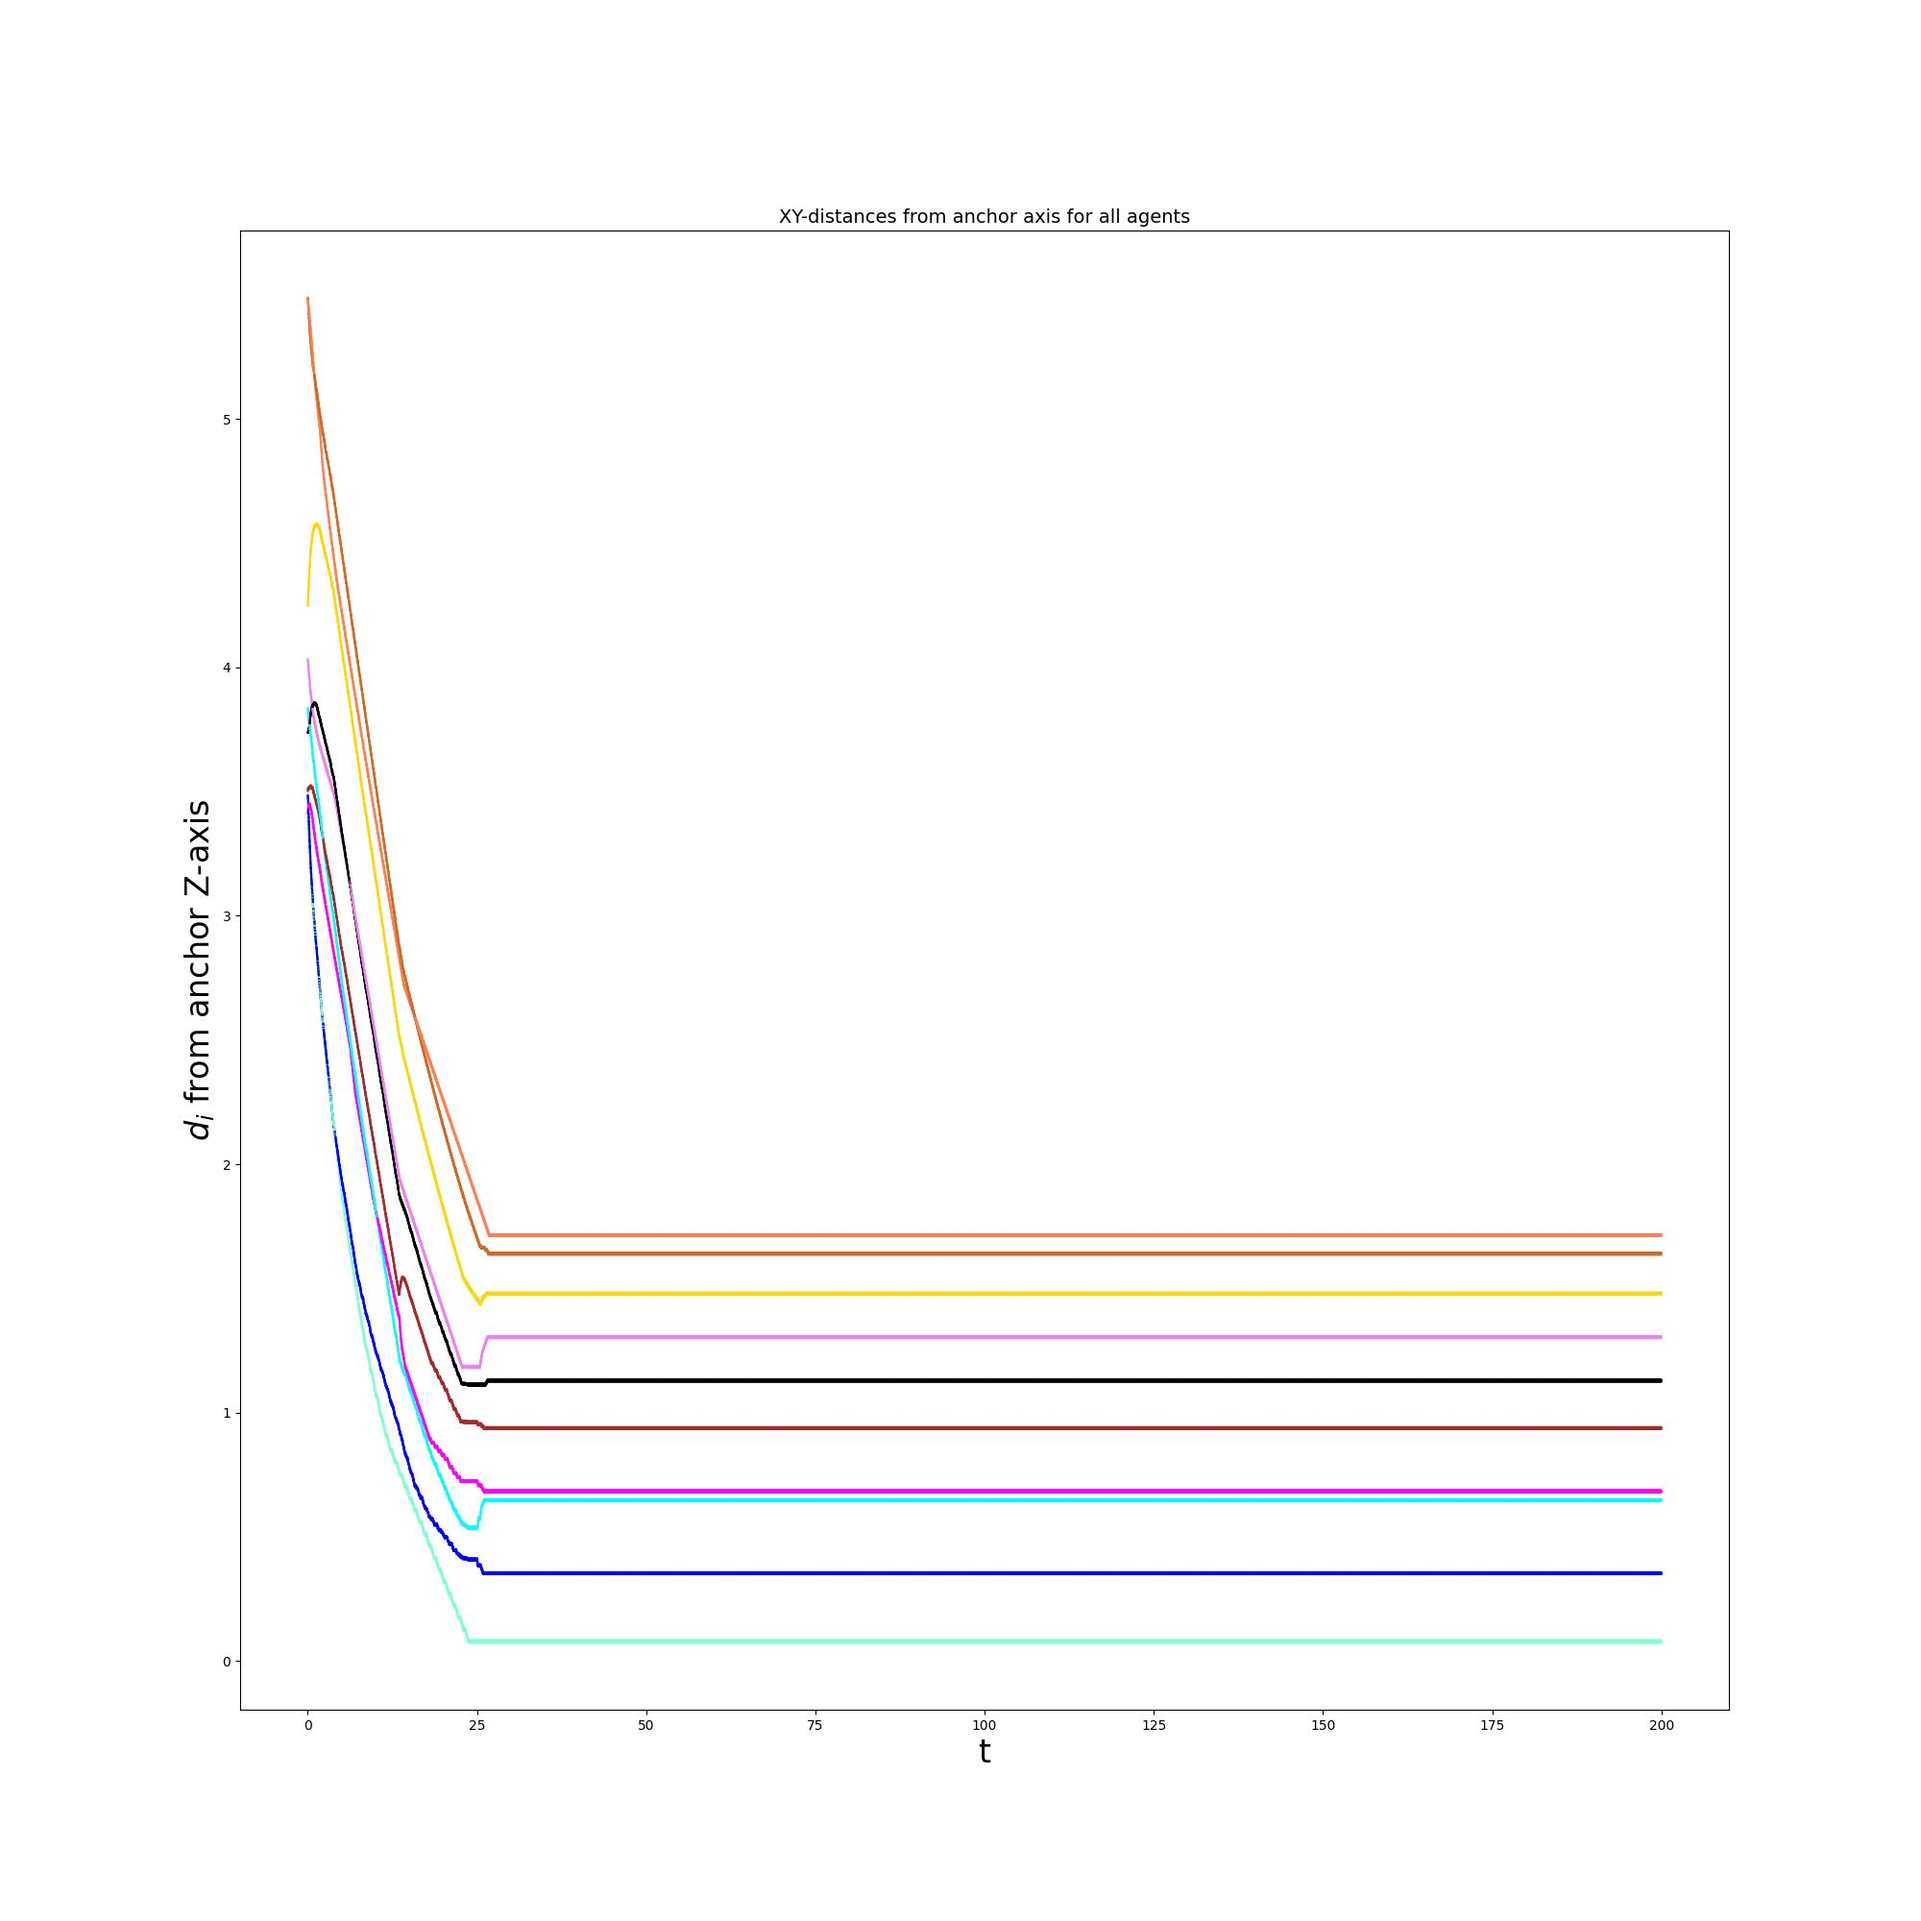
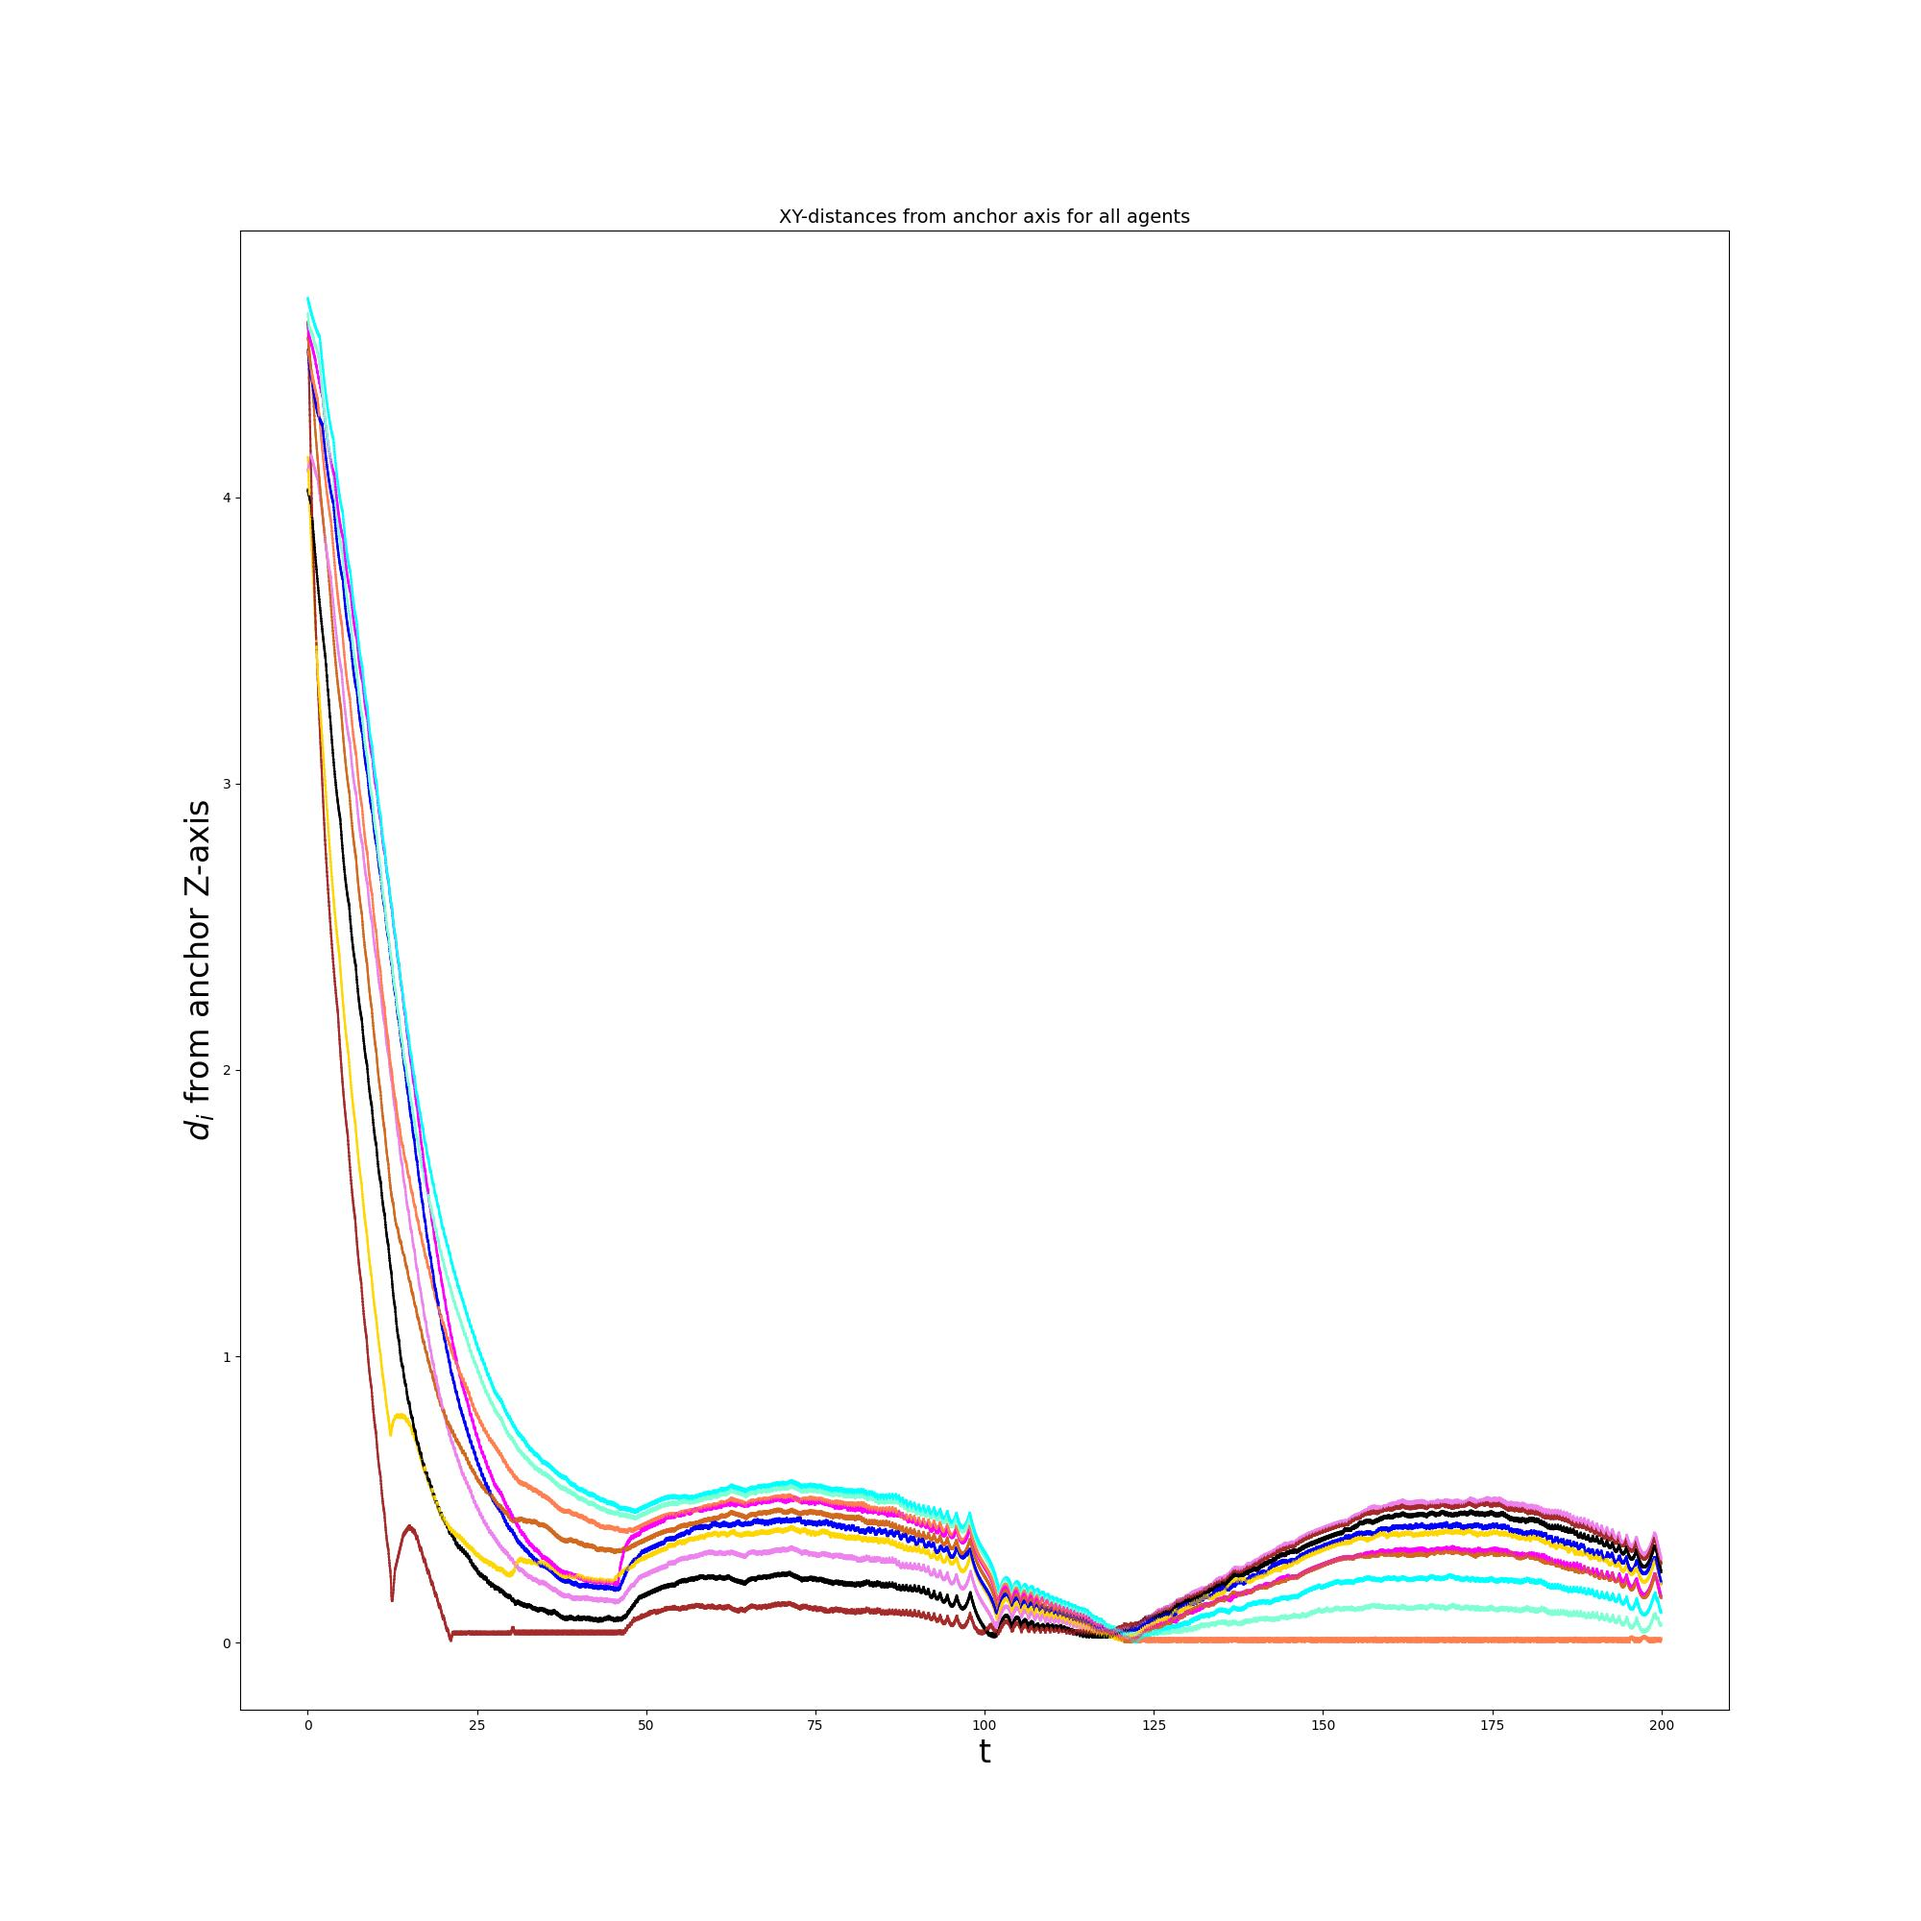
cruise began

Changed region(s): [[0.155, 0.155, 0.868, 0.868]]

diff --git a/controllers/swarm_python/cruise.py b/controllers/swarm_python/cruise.py
@@ -1,0 +1,189 @@
+import numpy as np
+import matplotlib.pyplot as plt
+import matplotlib.animation as animation
+
+from point_mass import Agent_1D, Pacemaker
+from matplotlib.patches import Circle
+from tqdm import tqdm
+from functools import partial
+
+n_params = 6
+
+R_vis = 3.0
+w = 0.5
+u_max = 10.0
+dt = 0.02
+traj_len = 10000
+
+n_frames = 10000
+data = []
+
+s_point = 30
+s_anchor = 60
+
+
+def sign(x):
+    if x >= 0:
+        return 1
+    
+    return -1
+
+
+def xi(g):
+    return np.tanh(g)
+
+
+def get_peers(points, focus_point, anchor_pose):
+    peers = []
+    peer_state = 0
+
+    if abs(anchor_pose - focus_point.pose) <= R_vis:
+        peer_state = 2
+        vec = anchor_pose - focus_point.pose
+        peers.append(vec)
+
+    for point in points:
+        d = abs(point.pose - focus_point.pose) + np.random.normal(0, 0.0001)
+
+    for point in points:
+        d = np.linalg.norm(point.pose - focus_point.pose) + np.random.normal(0, 0.0001)
+
+        if d <= R_vis and point.id != focus_point.id and point.is_alive:
+            if peer_state == 0:
+                peer_state = 1
+
+            peer_state = max(peer_state, point.peer_state)
+            vec = point.pose - focus_point.pose
+            peers.append(vec)
+    
+    return peers, peer_state
+
+
+def get_nearest_distances(peers, anchor_dir):
+    min_dist_plus, min_dist_minus = np.inf, np.inf
+    id_plus, id_minus = -1, -1
+
+    for i in range(len(peers)):
+        v = peers[i]
+
+        if v >= 0:
+            if v < min_dist_plus:
+                min_dist_plus = v
+                id_plus = i
+        else:
+            if -v < min_dist_minus:
+                min_dist_minus = -v
+                id_minus = i
+
+    ids = [id_plus, id_minus]
+    mins = [min_dist_plus, min_dist_minus]
+    distances = []
+
+    for i in range(2):
+        if ids[i] == -1:
+            if anchor_dir[i] < 0:
+                distances.append(w)
+            else:
+                distances.append(R_vis)
+        else:
+            distances.append(mins[i])
+
+    return distances
+
+
+def control_force(distances, point):
+    d_plus, d_minus = distances
+    dx = point.dpose
+    sigma = dx - xi(d_plus) + xi(d_minus)
+    u = -u_max * sign(sigma)
+
+    return u
+
+
+def write_log(path, points):
+    with open(path, "a") as file:
+        line = f""
+
+        for point in points:
+            x = point.pose
+            dx = point.dpose
+            u = point.force
+            peer_state = int(point.peer_state)
+            id = point.id
+            is_alive = int(point.is_alive)
+
+            line += f"{x} {dx} {u} {peer_state} {id} {is_alive} "
+
+        file.write(line + "\n")
+
+
+def process(n_points,
+            log_path,
+            ):
+    
+    print('processing...')
+
+    R_min = 0.1
+    points = []
+    cur_x = 0
+
+    for i in range(n_points):
+        interval = np.random.uniform(R_min, R_vis)
+        x = cur_x - interval
+        point = Agent_1D(id=i, x=x)
+        points.append(point)
+        cur_x = x
+
+    pacemaker = Pacemaker()
+
+    n_iters = 10000
+    open(log_path, "w").close()
+
+    for iter in tqdm(range(n_iters)):
+        write_log(log_path, points)
+
+        for point in points:
+            if point.is_alive:
+                peers, p_state = get_peers(points, point, pacemaker.pose)
+                point.peer_state = p_state
+
+                vec_to_pacemaker = pacemaker.pose - point.pose
+                point.prior_knowledge = np.sign(vec_to_pacemaker)
+                signs = [sign(vec_to_pacemaker), -sign(vec_to_pacemaker)]
+
+                if len(peers) > 0:
+                    distances = get_nearest_distances(peers, signs)
+                else:
+                    distances = []
+
+                    for i, item in enumerate(signs):
+                        if item >= 0:
+                            distances.append(R_vis * item)
+                        else:
+                            distances.append(-w * item)
+
+                force = control_force(distances, point)
+                point.apply_force(force)
+                point.step(dt)
+
+        pacemaker.step()
+
+
+def create_gif(log_path, gif_path, frame_step=4):
+    print(f"creating gif {gif_path}")
+    iters = 0
+
+    with open(log_path, "r") as file:
+        lines = [line for line in file]
+
+        for line in lines:
+            nums = [float(item) for item in line.rstrip().split(' ')]
+            data.append(nums)
+            iters += 1
+
+            if iters >= n_frames:
+                break
+        
+        fig, ax = plt.subplots()
+        anim = animation.FuncAnimation(fig, partial(animate_xy, traj_path=traj_path), frames = tqdm(range(0, n_frames, frame_step)), interval = 20)
+        anim.save(gif_path, fps = 60, writer = 'pillow')

diff --git a/controllers/swarm_python/point_mass.py b/controllers/swarm_python/point_mass.py
@@ -77,3 +77,57 @@ class Anchor:
     def step(self):
         self.pose = self.trajectory[self.traj_point]
         self.traj_point = (self.traj_point + 1) % len(self.trajectory)
+
+
+class Agent_1D:
+    def __init__(self, id=0, mass=1.0, x=0, is_alive=True, k_friction=0.01):
+        self.id = id
+        self.mass = mass
+        self.pose = x
+        self.dpose = 0
+        self.ddpose = 0
+        self.force = 0
+        self.k_friction = k_friction
+
+        self.has_peer = False
+        self.peer_state = 0
+        self.prior_knowledge = 0
+        self.is_alive = is_alive
+
+    
+    def apply_force(self, force):
+        self.force = force
+
+
+    def set_dpose(self, dpose):
+        self.dpose = dpose
+
+
+    def kill(self):
+        self.is_alive = False
+        self.pose = 0
+
+
+    def resurrect(self):
+        self.is_alive = True
+
+
+    def step(self, dt):
+        self.ddpose = self.force / self.mass - self.k_friction * self.dpose
+
+        dpose = self.dpose + self.ddpose * dt
+        self.dpose = dpose
+        
+        pose = self.pose + self.dpose * dt + 0.5 * self.ddpose * dt**2
+        self.pose = pose
+
+
+class Pacemaker:
+    def __init__(self, x_0=0, velocity=1.0, dt=0.02):
+        self.pose = x_0
+        self.dpose = velocity
+        self.dt = dt
+
+    
+    def step(self):
+        self.pose = self.pose + self.dpose * self.dt

diff --git a/controllers/swarm_python/point_mass_acc_mod.py b/controllers/swarm_python/point_mass_acc_mod.py
@@ -153,10 +153,15 @@ def control_force(distances, point):
 def external_force(point, t):
     x, y, z = point.pose
 
+    if t >= 50 and t <= 100:
+        f = 1.0
+    elif t >= 150 and t <= 200:
+        f = -1.0
+    else:
+        f = 0
+
     return np.array([
-        #2.0 * np.cos(2 * np.pi / 200 * t),
-        #2.0 * np.sin(2 * np.pi / 200 * t),
-        2.0,
+        f,
         0,
         0
     ])
@@ -191,7 +196,7 @@ def process(n_points,
     
     print('processing...')
 
-    R_min = 0.1
+    R_min = 1.0
     sigma_alpha, sigma_beta = 0.8, 0.8
     points = []
 
@@ -532,4 +537,4 @@ def run(scene_name, traj_path, n_points):
     plot_graph_xy(log_path, traj_path, graph_path_xy)
 
 
-run("disturbed", traj_path_static, 10)
+run("step_gusts_1", traj_path_static, 10)
